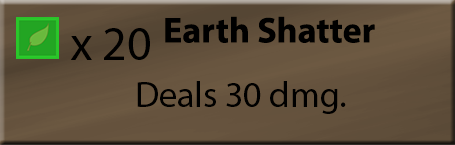
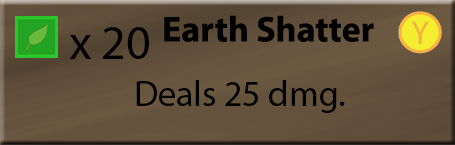
UI updated.
Damage rescaled.

diff --git a/GemFight/Monk.cs b/GemFight/Monk.cs
@@ -143,14 +143,14 @@ namespace GemFight
             if (GreenGems >= 20)
             {
                 GreenGems = GreenGems - 20;
-                Enemy.DoDmg(30, false);
+                Enemy.DoDmg(25, false);
             }
         }
         public override void Ability3()
         {
-            if (GreenGems >= 5 && BlueGems >= 5)
+            if (RedGems >= 5 && BlueGems >= 5)
             {
-                GreenGems = GreenGems - 5;
+                RedGems = RedGems - 5;
                 BlueGems = BlueGems - 5;
                 foreach (var gem in Game.ListOfGems)
                 {
